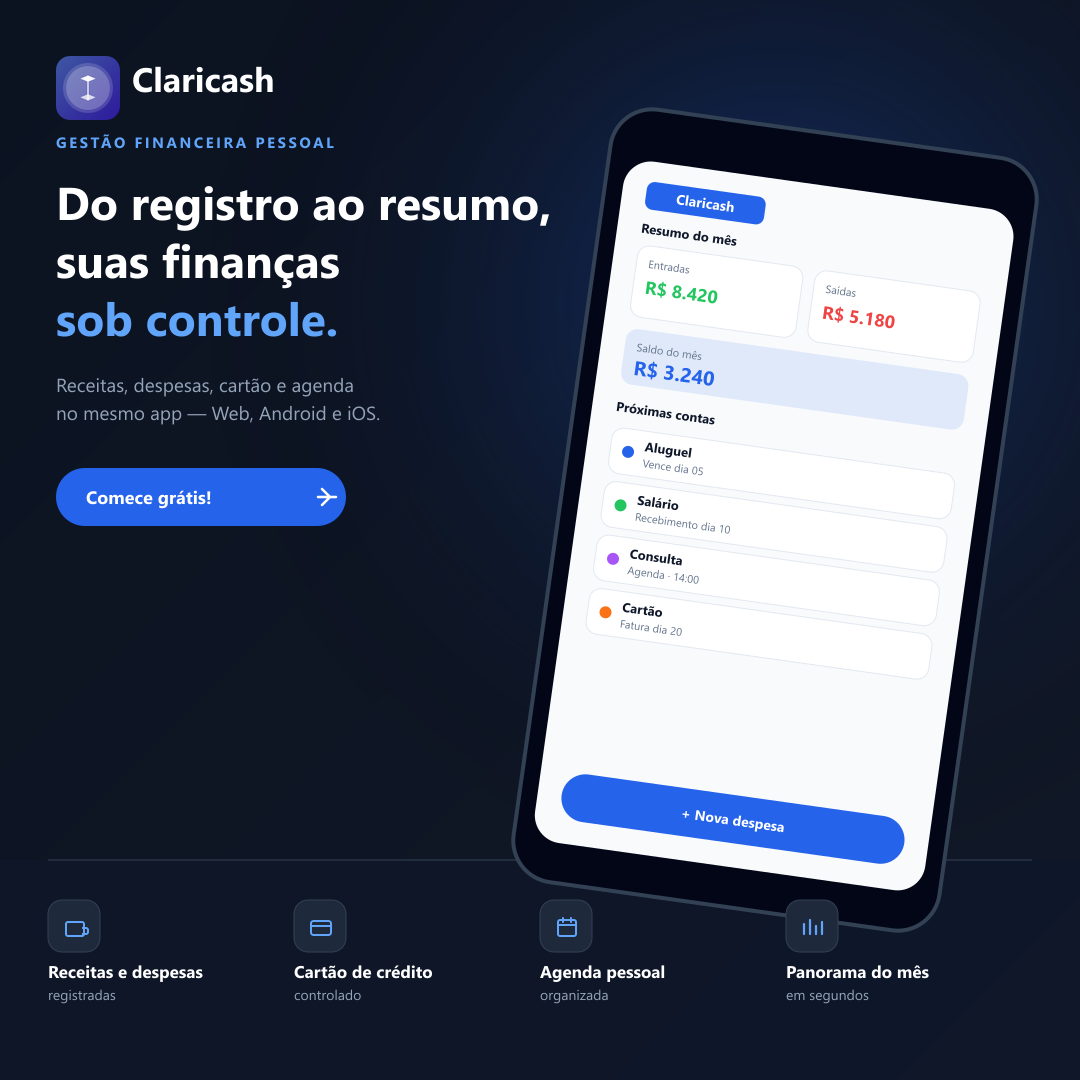
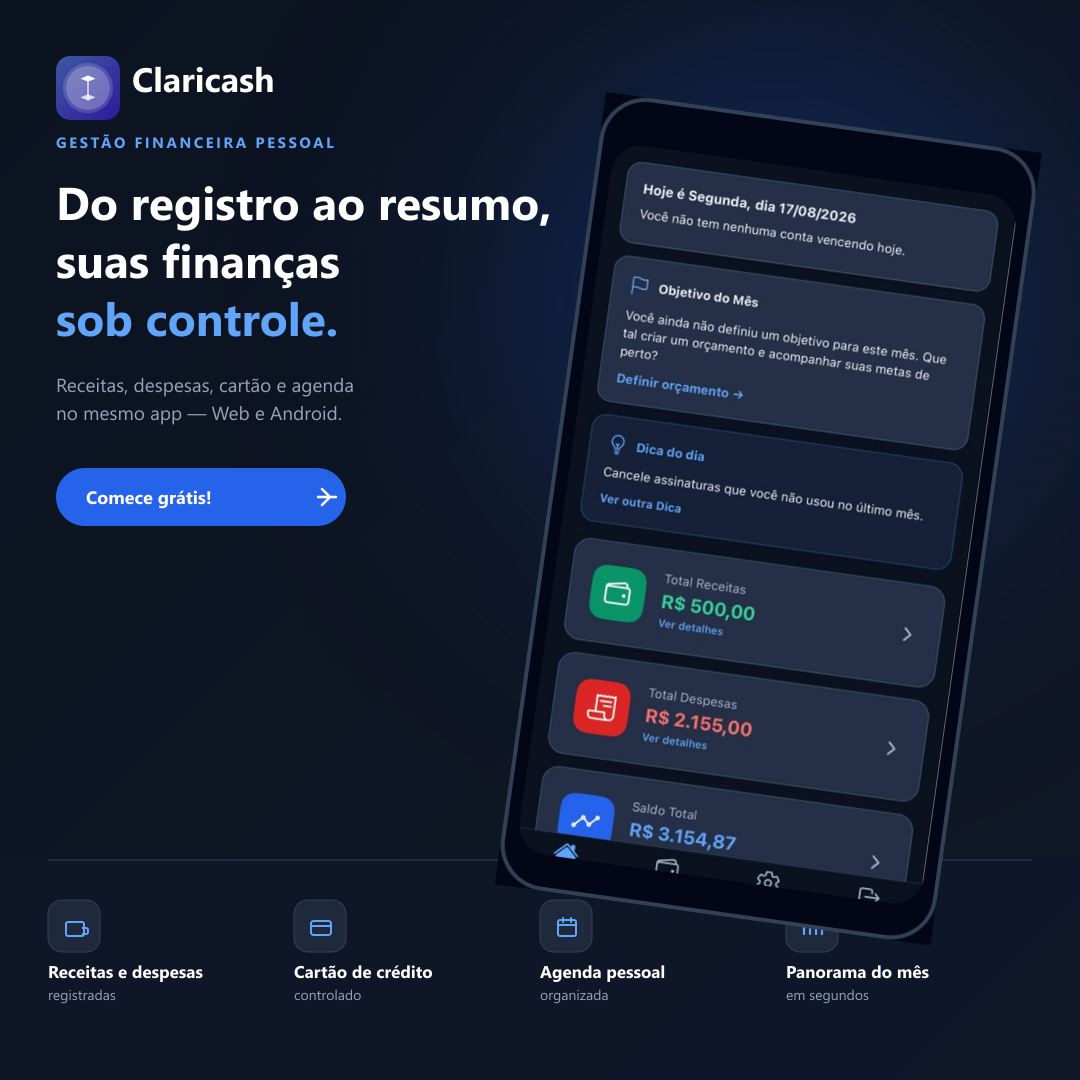
Atualiza card feed-06 com screenshot real e sem iOS.
Usa a tela inicial do app no mockup do telefone e corrige texto para Web e Android.

Changed region(s): [[0.4583, 0.0611, 0.9778, 0.8861], [0.2444, 0.3667, 0.3361, 0.3972]]

diff --git a/docs/social/instagram/campanha-ago-2026/render-feed-06-hero.js b/docs/social/instagram/campanha-ago-2026/render-feed-06-hero.js
@@ -6,6 +6,7 @@ const W = 1080;
 const H = 1080;
 const dir = __dirname;
 const officialIcon = "d:/Negocios/Projetos/Web/projeto-web/mobile/assets/icon.png";
+const appScreenshot = path.join(dir, "app-screenshot-home.png");
 
 const C = {
   bg: "#0B1220",
@@ -15,10 +16,21 @@ const C = {
   blueGlow: "rgba(37, 99, 235, 0.35)",
   white: "#FFFFFF",
   muted: "#94A3B8",
-  green: "#22C55E",
-  red: "#EF4444",
   card: "#1E293B",
   cardBorder: "#334155",
+};
+
+const PHONE = {
+  left: 548,
+  top: 118,
+  width: 440,
+  height: 800,
+  screenPadX: 16,
+  screenPadTop: 48,
+  screenPadBottom: 36,
+  screenRadius: 30,
+  frameRadius: 44,
+  rotate: 8,
 };
 
 async function roundedIcon(size) {
@@ -53,58 +65,50 @@ function featureIcon(type, x, y) {
   return icons[type] || "";
 }
 
-function phoneMockSvg() {
-  const px = 560;
-  const py = 130;
-  const pw = 430;
-  const ph = 780;
-  const screenX = px + 18;
-  const screenY = py + 52;
-  const screenW = pw - 36;
-  const screenH = ph - 92;
+async function buildPhoneLayer() {
+  const { width: fw, height: fh, screenPadX, screenPadTop, screenPadBottom, screenRadius, frameRadius } =
+    PHONE;
+  const sw = fw - screenPadX * 2;
+  const sh = fh - screenPadTop - screenPadBottom;
 
-  return `
-  <g transform="rotate(8, ${px + pw / 2}, ${py + ph / 2})">
-    <rect x="${px}" y="${py}" width="${pw}" height="${ph}" rx="42" fill="#020617" stroke="#334155" stroke-width="4"/>
-    <rect x="${screenX}" y="${screenY}" width="${screenW}" height="${screenH}" rx="28" fill="#F8FAFC"/>
+  const screenMask = Buffer.from(
+    `<svg width="${sw}" height="${sh}" xmlns="http://www.w3.org/2000/svg">
+      <rect width="${sw}" height="${sh}" rx="${screenRadius}" ry="${screenRadius}" fill="white"/>
+    </svg>`
+  );
 
-    <rect x="${screenX + 24}" y="${screenY + 20}" width="120" height="28" rx="8" fill="${C.blue}"/>
-    <text x="${screenX + 84}" y="${screenY + 39}" text-anchor="middle" font-family="Segoe UI, Arial, sans-serif" font-size="14" font-weight="700" fill="#fff">Claricash</text>
+  const screen = await sharp(appScreenshot)
+    .resize(sw, sh, { fit: "cover", position: "top" })
+    .composite([{ input: screenMask, blend: "dest-in" }])
+    .png()
+    .toBuffer();
 
-    <text x="${screenX + 24}" y="${screenY + 72}" font-family="Segoe UI, Arial, sans-serif" font-size="13" font-weight="700" fill="#0F172A">Resumo do mês</text>
+  const frameSvg = Buffer.from(
+    `<svg width="${fw}" height="${fh}" xmlns="http://www.w3.org/2000/svg">
+      <rect x="2" y="2" width="${fw - 4}" height="${fh - 4}" rx="${frameRadius}" ry="${frameRadius}"
+        fill="#020617" stroke="#334155" stroke-width="4"/>
+    </svg>`
+  );
 
-    <rect x="${screenX + 24}" y="${screenY + 84}" width="${(screenW - 60) / 2}" height="72" rx="12" fill="#fff" stroke="#E2E8F0"/>
-    <text x="${screenX + 36}" y="${screenY + 106}" font-family="Segoe UI, Arial, sans-serif" font-size="11" fill="#64748B">Entradas</text>
-    <text x="${screenX + 36}" y="${screenY + 132}" font-family="Segoe UI, Arial, sans-serif" font-size="18" font-weight="700" fill="${C.green}">R$ 8.420</text>
+  const phone = await sharp({
+    create: { width: fw, height: fh, channels: 4, background: { r: 2, g: 6, b: 23, alpha: 1 } },
+  })
+    .composite([
+      { input: frameSvg, left: 0, top: 0 },
+      { input: screen, left: screenPadX, top: screenPadTop },
+    ])
+    .png()
+    .toBuffer();
 
-    <rect x="${screenX + 36 + (screenW - 60) / 2}" y="${screenY + 84}" width="${(screenW - 60) / 2}" height="72" rx="12" fill="#fff" stroke="#E2E8F0"/>
-    <text x="${screenX + 48 + (screenW - 60) / 2}" y="${screenY + 106}" font-family="Segoe UI, Arial, sans-serif" font-size="11" fill="#64748B">Saídas</text>
-    <text x="${screenX + 48 + (screenW - 60) / 2}" y="${screenY + 132}" font-family="Segoe UI, Arial, sans-serif" font-size="18" font-weight="700" fill="${C.red}">R$ 5.180</text>
+  const rotated = await sharp(phone)
+    .rotate(PHONE.rotate, { background: { r: 0, g: 0, b: 0, alpha: 0 } })
+    .png()
+    .toBuffer();
 
-    <rect x="${screenX + 24}" y="${screenY + 168}" width="${screenW - 48}" height="56" rx="12" fill="${C.blue}" opacity="0.12"/>
-    <text x="${screenX + 36}" y="${screenY + 190}" font-family="Segoe UI, Arial, sans-serif" font-size="11" fill="#64748B">Saldo do mês</text>
-    <text x="${screenX + 36}" y="${screenY + 214}" font-family="Segoe UI, Arial, sans-serif" font-size="20" font-weight="700" fill="${C.blue}">R$ 3.240</text>
-
-    <text x="${screenX + 24}" y="${screenY + 252}" font-family="Segoe UI, Arial, sans-serif" font-size="13" font-weight="700" fill="#0F172A">Próximas contas</text>
-
-    ${[
-      { color: C.blue, title: "Aluguel", sub: "Vence dia 05", y: 268 },
-      { color: C.green, title: "Salário", sub: "Recebimento dia 10", y: 322 },
-      { color: "#A855F7", title: "Consulta", sub: "Agenda · 14:00", y: 376 },
-      { color: "#F97316", title: "Cartão", sub: "Fatura dia 20", y: 430 },
-    ]
-      .map(
-        (item) => `
-      <rect x="${screenX + 24}" y="${screenY + item.y}" width="${screenW - 48}" height="46" rx="12" fill="#fff" stroke="#E2E8F0"/>
-      <circle cx="${screenX + 42}" cy="${screenY + item.y + 23}" r="6" fill="${item.color}"/>
-      <text x="${screenX + 58}" y="${screenY + item.y + 20}" font-family="Segoe UI, Arial, sans-serif" font-size="13" font-weight="700" fill="#0F172A">${svgEscape(item.title)}</text>
-      <text x="${screenX + 58}" y="${screenY + item.y + 36}" font-family="Segoe UI, Arial, sans-serif" font-size="11" fill="#64748B">${svgEscape(item.sub)}</text>`
-      )
-      .join("")}
-
-    <rect x="${screenX + 24}" y="${screenY + screenH - 72}" width="${screenW - 48}" height="48" rx="24" fill="${C.blue}"/>
-    <text x="${screenX + screenW / 2}" y="${screenY + screenH - 42}" text-anchor="middle" font-family="Segoe UI, Arial, sans-serif" font-size="14" font-weight="700" fill="#fff">+ Nova despesa</text>
-  </g>`;
+  const meta = await sharp(rotated).metadata();
+  const left = Math.round(PHONE.left - (meta.width - fw) / 2);
+  const top = Math.round(PHONE.top - (meta.height - fh) / 2);
+  return { buffer: rotated, left, top };
 }
 
 function buildSvg() {
@@ -146,7 +150,6 @@ function buildSvg() {
   <rect x="0" y="860" width="${W}" height="220" fill="rgba(15, 23, 42, 0.72)"/>
   <line x1="48" y1="860" x2="1032" y2="860" stroke="${C.cardBorder}" stroke-width="1"/>
 
-  <g id="logo-slot" transform="translate(56, 56)"></g>
   <text x="132" y="92" font-family="Segoe UI, Arial, sans-serif" font-size="34" font-weight="800" fill="${C.white}">Claricash</text>
 
   <text x="56" y="148" font-family="Segoe UI, Arial, sans-serif" font-size="15" font-weight="700" letter-spacing="2.5" fill="${C.blueLight}">GESTÃO FINANCEIRA PESSOAL</text>
@@ -157,25 +160,34 @@ function buildSvg() {
 
   <text x="56" y="392" font-family="Segoe UI, Arial, sans-serif" font-size="19" fill="${C.muted}">
     <tspan x="56" dy="0">Receitas, despesas, cartão e agenda</tspan>
-    <tspan x="56" dy="28">no mesmo app — Web, Android e iOS.</tspan>
+    <tspan x="56" dy="28">no mesmo app — Web e Android.</tspan>
   </text>
 
   <rect x="56" y="468" width="290" height="58" rx="29" fill="${C.blue}"/>
   <text x="86" y="504" font-family="Segoe UI, Arial, sans-serif" font-size="18" font-weight="700" fill="#fff">Comece grátis!</text>
   <path d="M318 497l18 0M330 497l-8-8M330 497l-8 8" stroke="#fff" stroke-width="2.5" stroke-linecap="round" stroke-linejoin="round" fill="none"/>
 
-  ${phoneMockSvg()}
   ${featureCols}
 </svg>`;
 }
 
 async function run() {
+  if (!fs.existsSync(appScreenshot)) {
+    throw new Error("Screenshot não encontrado: " + appScreenshot);
+  }
+
   const svg = buildSvg();
-  const base = sharp(Buffer.from(svg)).png();
   const icon = await roundedIcon(64);
-  await base
-    .composite([{ input: icon, left: 56, top: 56 }])
+  const phone = await buildPhoneLayer();
+
+  await sharp(Buffer.from(svg))
+    .composite([
+      { input: phone.buffer, left: phone.left, top: phone.top },
+      { input: icon, left: 56, top: 56 },
+    ])
+    .png()
     .toFile(path.join(dir, "feed-06-hero-controle.png"));
+
   console.log("ok feed-06-hero-controle.png");
 }
 

diff --git a/docs/social/instagram/campanha-ago-2026/LEGENDAS.md b/docs/social/instagram/campanha-ago-2026/LEGENDAS.md
@@ -93,7 +93,7 @@ Comece grátis: claricash.com.br
 ```
 Do registro ao resumo, suas finanças sob controle.
 
-Receitas, despesas, cartão e agenda no mesmo app — Web, Android e iOS.
+Receitas, despesas, cartão e agenda no mesmo app — Web e Android.
 
 Comece grátis: claricash.com.br
 
